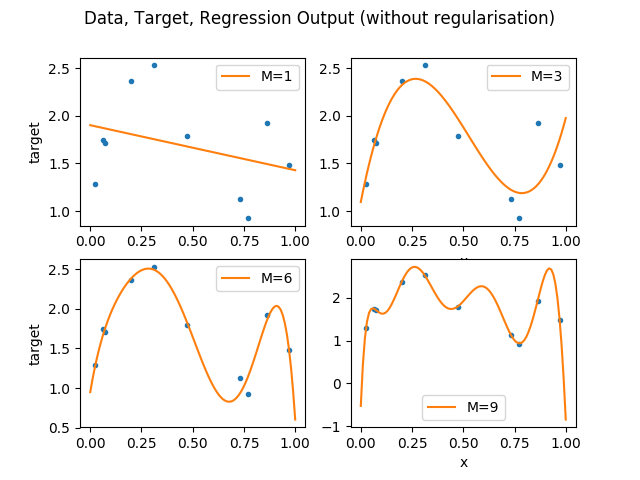
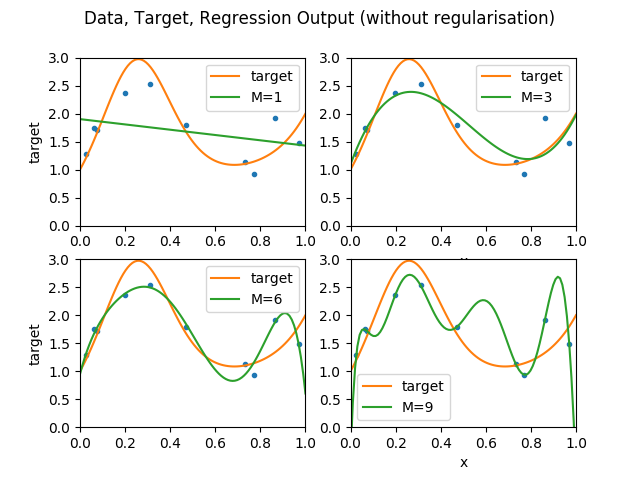
q5 done

diff --git a/regression.py b/regression.py
@@ -7,6 +7,9 @@ from sklearn.model_selection import train_test_split
 
 # warnings.filterwarnings("ignore")
 
+def getFunc(X) :
+    return np.exp(np.sin(2*np.pi*X)) + X
+
 def getPolyfit(X,w) :
     return np.matmul(X,w)
 
@@ -40,7 +43,7 @@ y = np.ndarray(shape=(100,1),dtype=np.float64)
 # Generate 100 points in (0,1)
 X = np.random.uniform(low=0,high=1,size=100).reshape(100,1)
 noise = np.random.normal(0,np.sqrt(0.1),100).reshape(100,1)
-func = np.exp(np.sin(2*np.pi*X)) + X
+func = getFunc(X)
 y = func + noise
 
 # Shuffling data
@@ -101,14 +104,19 @@ for degree in degrees :
 
                 # Training data
                 plt.plot(X_train_new,y_train_new,'.')
+                
                 # Curve fit
                 x = np.linspace(0,1,100)
+                y_func = getFunc(x)
+                plt.plot(x,y_func,label="target")
                 x_poly = getPolyfeatures(x,degree)
                 y_func = getPolyfit(x_poly,w)
                 # Coefficients
-                np.savetxt("results/coefficients/"+str(degree)+".txt",w,newline=" ")
+                np.savetxt("results/coefficients/noreg/"+str(degree)+".txt",w,newline=" ")
                 M = "M="+str(degree)
                 plt.plot(x, y_func,label=M)
+                plt.xlim(0,1)
+                plt.ylim(0,3)
                 plt.legend()
                 figure.suptitle("Data, Target, Regression Output (without regularisation)")
                 plt.savefig("results/targetvsx.png")
@@ -209,6 +217,8 @@ plt.tight_layout()
 plt.plot(all_degrees,rmse_train,"-*",label="Train")
 plt.plot(all_degrees,rmse_test,"-*",label="Test")
 plt.legend(fontsize=8,loc="upper right")
+plt.xlabel("Degree",fontsize=8)
+plt.ylabel(r"$E_{RMS}$",fontsize=8)
 plt.savefig("results/erms.png")
 
 
@@ -217,44 +227,75 @@ figure = plt.figure()
 degree = 9
 size = 10
 
-plt.subplot(231)
+plt.subplot(221)
 x = np.linspace(0,1,100)
 x_poly = getPolyfeatures(x,degree)
-plt.plot(X_train_new,y_train_new,'.')
-# with ridge regression for 9th degree polynomial
-X_train_new = X_train[:size]
-y_train_new = y_train[:size]
-w, y_pred_new, rmse = getResults(X_train_new, y_train_new, degree, best_ridge)
-y_func = getPolyfit(x_poly,w)
-plt.plot(x, y_func)
-plt.title(r'$\lambda=$'+str(best_ridge))
-plt.ylabel("target")
-plt.tight_layout()
-
-plt.subplot(232)
-# with regularisation using large train size for 9th degree polynomial
-X_train_new = X_train[:int(best_size)]
-y_train_new = y_train[:int(best_size)]
-plt.plot(X_train_new,y_train_new,'.')
-w, y_pred_new, rmse = getResults(X_train_new, y_train_new, degree, 0)
-y_func = getPolyfit(x_poly,w)
-plt.plot(x, y_func)
-plt.title("Train size - "+str(int(best_size)))
-plt.tight_layout()
-
-plt.subplot(233)
 # without regularisation for 9th degree polynomial
 X_train_new = X_train[:10]
 y_train_new = y_train[:10]
 plt.plot(X_train_new,y_train_new,'.')
 w, y_pred_new, rmse = getResults(X_train_new, y_train_new, degree, 0)
 y_func = getPolyfit(x_poly,w)
-plt.plot(x, y_func)
+plt.plot(x, y_func,label="output")
 plt.title("No regularisation")
-plt.xlabel("x")
+y_func = getFunc(x)
+plt.plot(x,y_func,label="target")
 plt.tight_layout()
+plt.ylabel("y")
+plt.legend()
+
+plt.subplot(223)
+
+plt.plot(X_train_new,y_train_new,'.')
+# with ridge regression for 9th degree polynomial
+X_train_new = X_train[:size]
+y_train_new = y_train[:size]
+w, y_pred_new, rmse = getResults(X_train_new, y_train_new, degree, best_ridge)
+y_func = getPolyfit(x_poly,w)
+np.savetxt("results/coefficients/lowreg/"+str(degree)+".txt",w,newline=" ")
+plt.plot(x, y_func,label="output")
+plt.title(r'$\lambda=$'+str(best_ridge))
+y_func = getFunc(x)
+plt.plot(x,y_func,label="target")
+plt.tight_layout()
+plt.ylabel("y")
+plt.xlabel("x")
+plt.legend()
+
+plt.subplot(222)
+# with regularisation using large train size for 9th degree polynomial
+X_train_new = X_train[:int(best_size)]
+y_train_new = y_train[:int(best_size)]
+plt.plot(X_train_new,y_train_new,'.')
+w, y_pred_new, rmse = getResults(X_train_new, y_train_new, degree, 0)
+y_func = getPolyfit(x_poly,w)
+plt.plot(x, y_func,label="output")
+plt.title("Train size - "+str(int(best_size)))
+y_func = getFunc(x)
+plt.plot(x,y_func,label="target")
+plt.tight_layout()
+plt.legend()
+
+
+
+plt.subplot(224)
+# high regularisation for 9th degree polynomial
+X_train_new = X_train[:10]
+y_train_new = y_train[:10]
+plt.plot(X_train_new,y_train_new,'.')
+w, y_pred_new, rmse = getResults(X_train_new, y_train_new, degree, 1)
+y_func = getPolyfit(x_poly,w)
+np.savetxt("results/coefficients/highreg/"+str(degree)+".txt",w,newline=" ")
+plt.plot(x, y_func,label="output")
+plt.title(r'$\lambda=$'+str(1))
+plt.xlabel("x")
+y_func = getFunc(x)
+plt.plot(x,y_func,label="target")
+plt.tight_layout()
+plt.legend()
+
 # figure.suptitle("Analysis of Overfitting for degree 9")
-plt.savefig("results/overfit.png")
+plt.savefig("results/fitting.png")
 
 
 plt.show()
